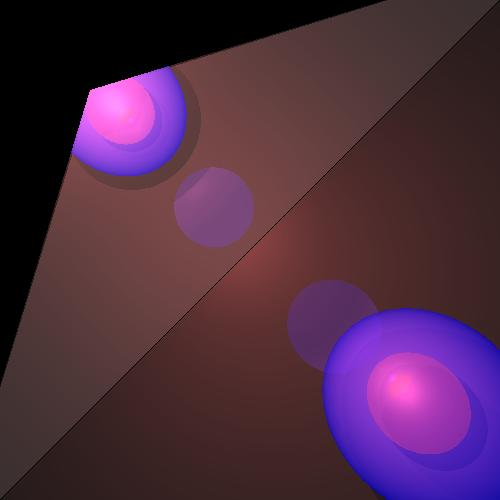
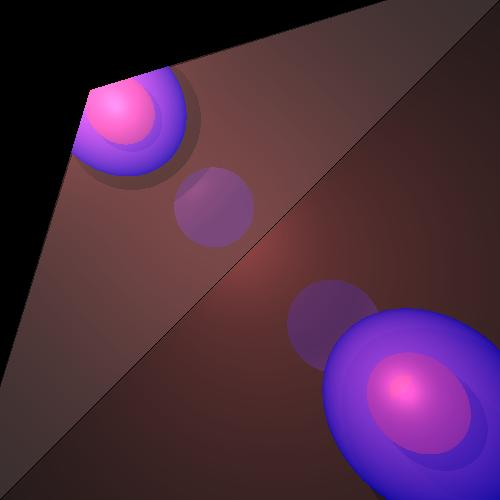
level fix. 100->3

Changed region(s): [[0.15, 0.15, 0.33, 0.3], [0.78, 0.75, 0.81, 0.78]]

diff --git a/unittests/RecursiveTest.java b/unittests/RecursiveTest.java
@@ -130,4 +130,28 @@ public class RecursiveTest {
 		render.printImage();
 
 	}
+	@Test
+	public void billTest() {
+		Scene scene = new Scene("bill");
+		scene.set_camera(new Camera(new Point3D(0, 0, 0), new Vector(0, -1, 0), new Vector(0, 0, 1)));
+		scene.set_distance(100);
+		scene.set_background(new Color(165, 42, 42));
+		scene.set_ambientLight(new AmbientLight());
+
+		Geometries geometries = new Geometries();
+		Plane plane1 = new Plane(new Point3D(0,0,0), new Vector(2,9,6), new Color(0,100,0), new Material(0.5, 0.5, 8, 0, 1));
+
+		scene.set_geometries(geometries);
+		List<LightSource> lights = new ArrayList<LightSource>();
+		SpotLight spotLight = new SpotLight(new Point3D(50, -1, -32), 1, 0, 0.69, new Color(200, 200, 200), new Vector(-25, 0, 80));
+		lights.add(spotLight);
+		scene.set_lights(lights);
+
+		ImageWriter imageWriter = new ImageWriter("bill test", 500, 500, 500, 500);
+		Render testRender = new Render(imageWriter, scene);
+
+		testRender.renderImage();
+		testRender.printImage();
+
+	}
 }

diff --git a/renderer/Render.java b/renderer/Render.java
@@ -98,7 +98,7 @@ public class Render {
 	}
 
 	private Color calcColor(GeoPoint geopoint, Ray inRay) {
-		return calcColor(geopoint, inRay, 100, 1.0);
+		return calcColor(geopoint, inRay, 3, 1.0);
 	}
 
 	/**
